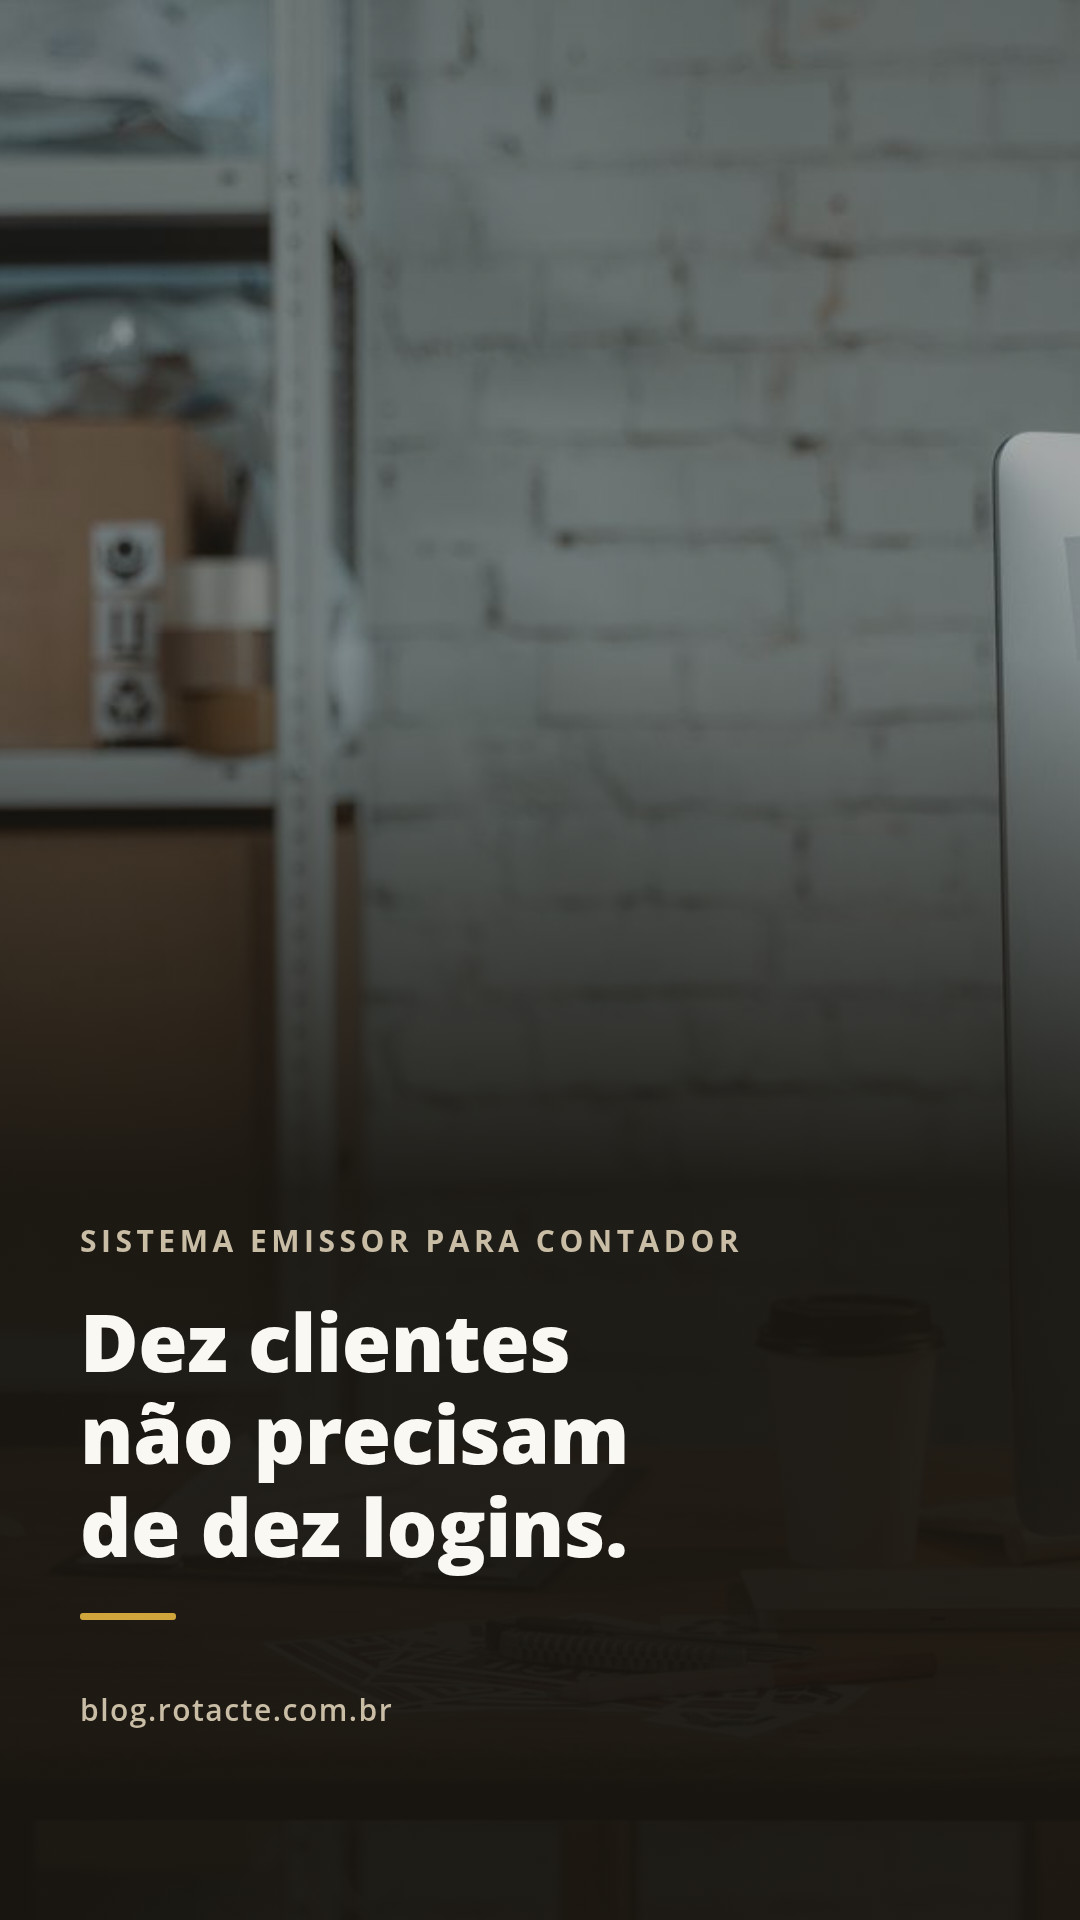
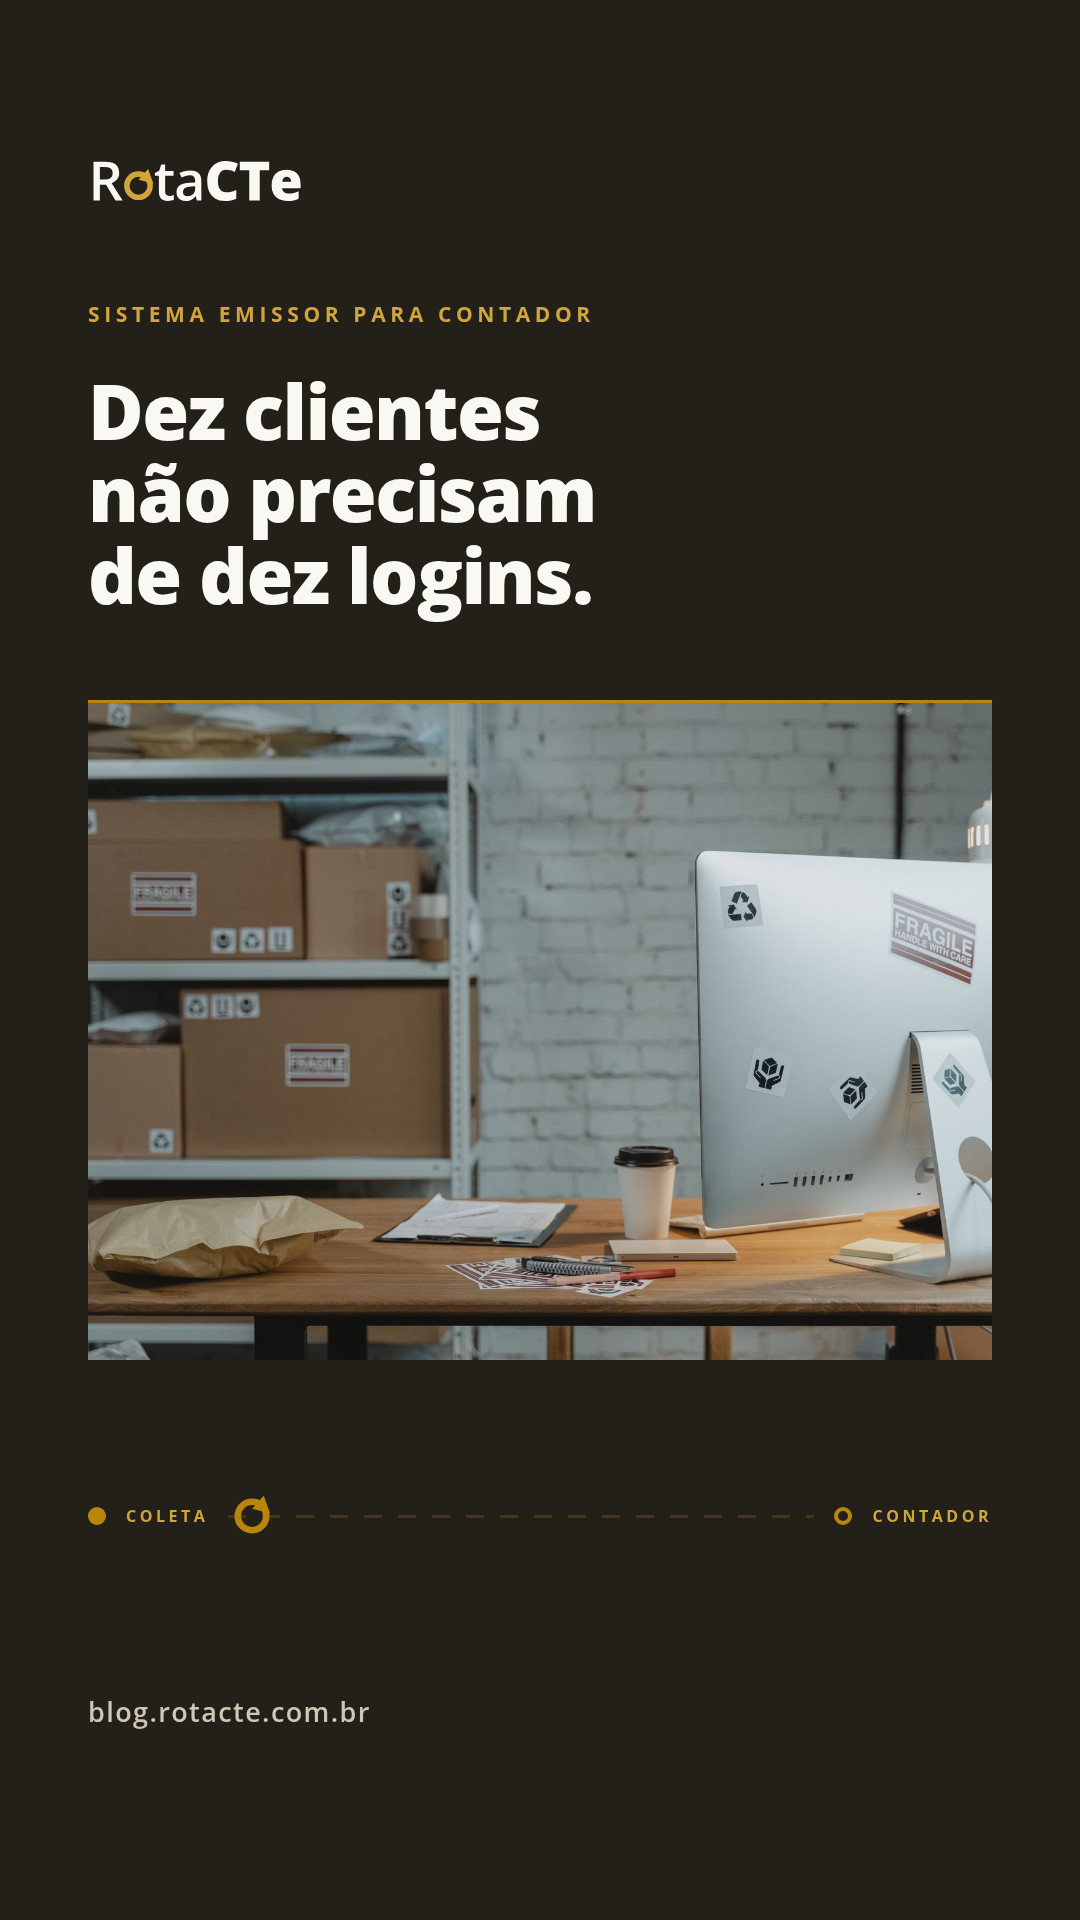
fix(stories): a abertura tambem passa a ser do RotaCTe
Era o unico quadro que ainda vinha do gerar-capa --formato stories: foto sangrando, veu e
texto por cima — o tratamento do Reservya, e o que a regra 3 da identidade ROTA proibe.
Agora `--abertura` monta o quadro 1 no desenho da casa: logotipo, titulo grande, foto em
FAIXA com fio dourado e a rota no ponto de partida.

De quebra, a linha de rota virou funcao propria (`linha_rota`): a abertura tentava
reaproveita-la fatiando a string do corpo, e por isso saiu sem linha nenhuma na primeira
volta.

diff --git a/scripts/gerar-stories.py b/scripts/gerar-stories.py
@@ -31,6 +31,15 @@ marca traz o próprio LAYOUT, porque as duas identidades discordam no desenho, n
 ⚠ A primeira versão disto era o layout do Reservya recolorido, e ficou com cara de peça
 emprestada — que é exatamente o que a identidade do RotaCTe existe para evitar.
 
+## A abertura (quadro 1)
+
+No Reservya ela sai do `gerar-capa.py --formato stories`: foto sangrando, véu e título em
+cima — o tratamento da casa de lá.
+
+No RotaCTe esse mesmo quadro seria uma peça do Reservya com outra cor, então ele nasce aqui:
+`--abertura <foto> --olho "..." --titulo "linha|linha"` monta a abertura no desenho ROTA
+(logotipo, título grande, foto em FAIXA com fio dourado, rota no ponto de partida).
+
 Precisa de google-chrome e Pillow. As fontes são os woff2 locais: sem rede.
 """
 import argparse
@@ -129,19 +138,17 @@ ESTILO_ROTACTE = """
 """
 
 
-def corpo_rotacte(paragrafos, passo, total):
-    """O trajeto anda com o story: quadro 1 de 5 = 20%, quadro 5 de 5 = fechado.
+def linha_rota(andado):
+    """A assinatura da marca: Coleta → anel → Contador, com `andado` de 0 a 1.
 
-    É o mesmo recurso do Reels da campanha, na velocidade do dedo de quem toca a tela em
-    vez da do vídeo. Quem chega ao último quadro vê a rota completa — e o último quadro é
-    justamente o da pergunta e do link.
+    O trajeto anda com o story — quadro 1 de 5 = 20%, quadro 5 de 5 = fechado. É o mesmo
+    recurso do Reels da campanha, na velocidade do dedo de quem toca a tela em vez da do
+    vídeo. Quem chega ao último quadro vê a rota completa, e o último quadro é justamente
+    o da pergunta e do link.
     """
-    p = max(0.06, min(1.0, passo / total))
+    p = max(0.06, min(1.0, andado))
     fim = "cheio" if p >= 0.999 else "vazio"
-    return f'''
-  <div class="lock"><img src="file://{MARCA_ROTACTE}/rotacte-logo-branco.svg"></div>
-  <div class="bloco">{paragrafos}</div>
-  <div class="rota">
+    return f'''<div class="rota">
     <div class="no cheio"></div><div class="rotulo">Coleta</div>
     <div class="trilho">
       <div class="apagado"><i></i></div>
@@ -151,6 +158,44 @@ def corpo_rotacte(paragrafos, passo, total):
     </div>
     <div class="no {fim}"></div><div class="rotulo">Contador</div>
   </div>'''
+
+
+def logotipo():
+    return f'<div class="lock"><img src="file://{MARCA_ROTACTE}/rotacte-logo-branco.svg"></div>'
+
+
+def corpo_rotacte(paragrafos, passo, total):
+    return (f'{logotipo()}<div class="bloco">{paragrafos}</div>'
+            f'{linha_rota(passo / total)}')
+
+
+ABERTURA_ROTACTE = """
+  .lock{position:absolute;left:88px;top:150px;}
+  .lock img{display:block;width:214px;height:62px;}
+  .olho{position:absolute;left:88px;right:88px;top:300px;font-size:21px;font-weight:700;
+        letter-spacing:.22em;text-transform:uppercase;color:#d0a63c;}
+  h1{position:absolute;left:88px;right:88px;top:370px;margin:0;font-size:76px;
+     font-weight:800;line-height:1.08;letter-spacing:-.02em;color:#faf8f3;}
+  .faixa{position:absolute;left:88px;right:88px;top:700px;height:660px;
+         border-top:3px solid #b8860b;background-size:cover;background-repeat:no-repeat;}
+"""
+
+
+def abertura_rotacte(foto, olho, titulo, posicao):
+    """Quadro 1 no desenho ROTA: a foto é FAIXA e o texto tem chão próprio.
+
+    A abertura do Reservya continua vindo do gerar-capa (foto sangrando + véu). Aqui isso
+    seria a peça do outro produto pintada de dourado — e foi assim que a primeira versão
+    saiu, com razão rejeitada.
+    """
+    linhas = "<br>".join(l.strip() for l in titulo.split("|") if l.strip())
+    return f'''
+  {logotipo()}
+  <div class="olho">{olho}</div>
+  <h1>{linhas}</h1>
+  <div class="faixa" style="background-image:url('file://{foto}');
+       background-position:{posicao};"></div>
+  {linha_rota(0)}'''
 
 
 LAYOUTS = {
@@ -208,6 +253,10 @@ def main():
     p.add_argument("--marca", required=True, choices=sorted(MARCAS))
     p.add_argument("roteiro", help="arquivos/stories-<slug>.md")
     p.add_argument("--qualidade", type=int, default=90)
+    p.add_argument("--abertura", help="foto do quadro 1 (só rotacte; no Reservya use o gerar-capa)")
+    p.add_argument("--olho", help="linha em versalete da abertura")
+    p.add_argument("--titulo", help="título da abertura; use | para quebrar a linha")
+    p.add_argument("--foco", default="center 40%", help="background-position da faixa de foto")
     a = p.parse_args()
 
     roteiro = pathlib.Path(a.roteiro)
@@ -221,8 +270,38 @@ def main():
     if not achados:
         sys.exit("nenhum quadro com texto de tela no roteiro")
 
+    if a.abertura and a.marca != "rotacte":
+        sys.exit("--abertura é do rotacte; a do Reservya sai do gerar-capa --formato stories")
+    if a.abertura and not (a.olho and a.titulo):
+        sys.exit("--abertura pede --olho e --titulo")
+
     from PIL import Image
     with tempfile.TemporaryDirectory() as tmp:
+        if a.abertura:
+            foto = pathlib.Path(a.abertura).resolve()
+            if not foto.exists():
+                sys.exit(f"foto não encontrada: {foto}")
+            m = MARCAS[a.marca]
+            pag = PAGINA.format(
+                L=L, A=A, margem=MARGEM, estilo=ESTILO_ROTACTE + ABERTURA_ROTACTE,
+                corpo=abertura_rotacte(foto, a.olho, a.titulo, a.foco),
+                fonte=m["fonte"], arquivo=m["arquivo"], fundo=m["fundo"], claro=m["claro"],
+                apoio=m["apoio"], pe=m["pe"], peso_destaque=m["peso_destaque"],
+                peso_corpo=m["peso_corpo"], aperto=m["aperto"], site=m["site"])
+            arq = pathlib.Path(tmp) / "q1.html"
+            arq.write_text(pag, encoding="utf-8")
+            png = pathlib.Path(tmp) / "q1.png"
+            subprocess.run(
+                ["google-chrome", "--headless", "--disable-gpu", "--no-sandbox",
+                 "--hide-scrollbars", "--allow-file-access-from-files",
+                 f"--window-size={L},{A}", f"--screenshot={png}",
+                 "--virtual-time-budget=6000", f"file://{arq}"],
+                check=True, capture_output=True, timeout=180)
+            fim = saida / f"stories-{slug}.jpg"
+            Image.open(png).convert("RGB").save(
+                fim, "JPEG", quality=a.qualidade, subsampling=0, optimize=True)
+            print(f"  {fim} · {fim.stat().st_size // 1024} KB · abertura")
+
         for passo, (n, falas) in enumerate(achados, start=1):
             arq = pathlib.Path(tmp) / f"q{n}.html"
             arq.write_text(html(falas, a.marca, passo, len(achados)), encoding="utf-8")

diff --git a/arquivos/stories-sistema-emissor-contador.md b/arquivos/stories-sistema-emissor-contador.md
@@ -5,12 +5,25 @@ Seis quadros, **todos já renderizados** — nada para montar no app:
 
 | quadro | arquivo |
 |---|---|
-| 1 · abertura | `arquivos/imagens/stories-sistema-emissor-contador.jpg` (foto + título) |
+| 1 · abertura | `arquivos/imagens/stories-sistema-emissor-contador.jpg` (título + faixa de foto) |
 | 2 a 6 | `arquivos/imagens/stories-sistema-emissor-contador-<n>.jpg` (texto sobre o espresso) |
 
-Os quadros de texto saem **deste arquivo**: `python3 scripts/gerar-stories.py --marca rotacte
-arquivos/stories-sistema-emissor-contador.md` lê as citações abaixo e regrava os JPEG. Mexeu
-no texto daqui, roda de novo — não editar a imagem à mão.
+Os seis saem **deste arquivo**, num comando só:
+
+```bash
+python3 scripts/gerar-stories.py --marca rotacte \
+  --abertura arquivos/fotos/escritorio-logistica.jpg \
+  --olho "Sistema emissor para contador" \
+  --titulo "Dez clientes|não precisam|de dez logins." --foco "center 45%" \
+  arquivos/stories-sistema-emissor-contador.md
+```
+
+Mexeu no texto daqui, roda de novo — não editar a imagem à mão. ⚠ A abertura do RotaCTe
+**não** sai do `gerar-capa.py --formato stories`: aquele põe foto sangrando com véu e texto
+em cima, que é o tratamento do Reservya e o que a identidade ROTA proíbe.
+
+A **linha de rota anda com o story**: 0 na abertura, 20% no primeiro texto e fechada no
+sexto, que é o do link.
 
 ---
 
